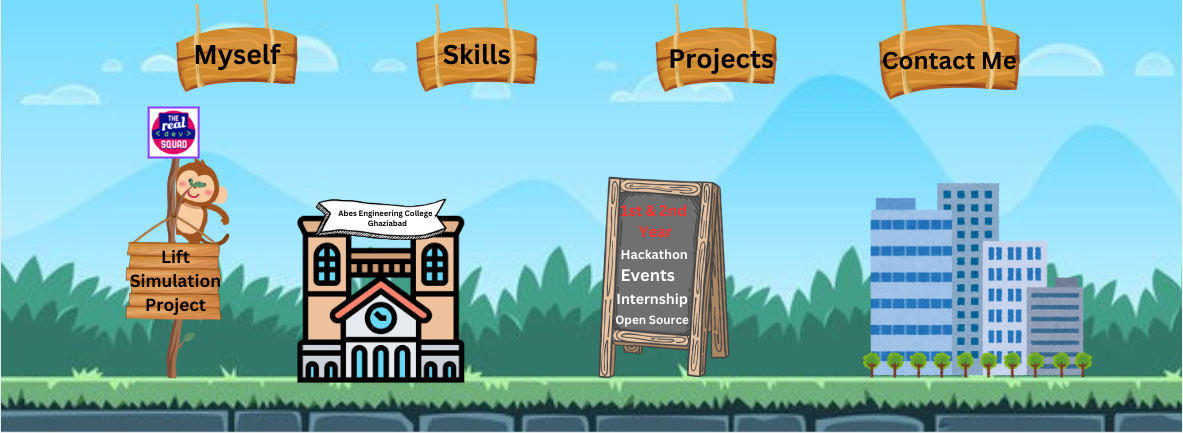
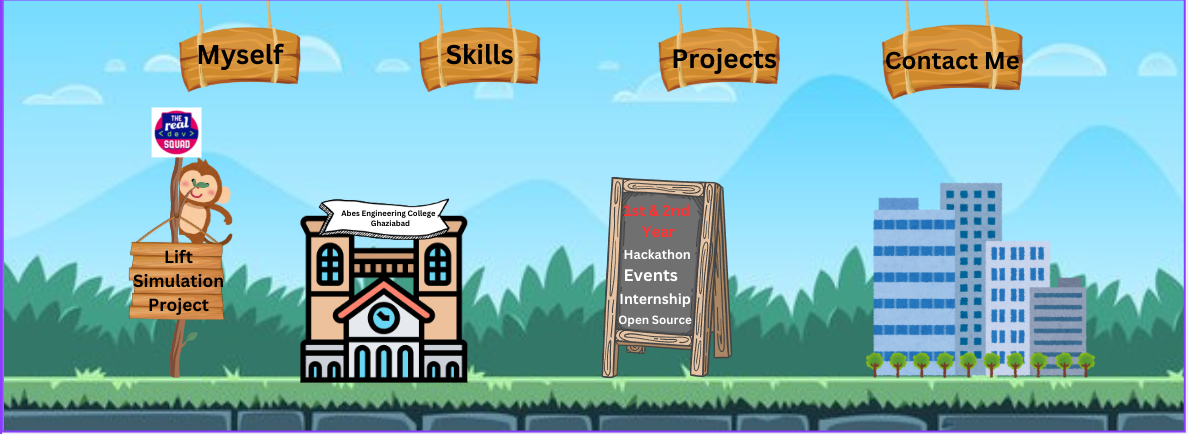
Contact Button working

diff --git a/main.js b/main.js
@@ -72,11 +72,11 @@ function create() {
         coin.setScale(0.2);
     
         // Set up the level crossed message (hidden initially)
-        levelCrossedText = this.add.text(this.scale.width / 2, this.scale.height / 2, 'Level 1 Crossed!', {
-            fontSize: '48px',
-            color: '#ff0000',
-            fontWeight: 'bold',
-        }).setOrigin(0.5).setVisible(false);
+        // levelCrossedText = this.add.text(this.scale.width / 2, 4000, 'Level 1 Crossed!', {
+        //     fontSize: '48px',
+        //     color: '#ff0000',
+        //     fontWeight: 'bold',
+        // }).setOrigin(0.5).setVisible(false);
     
 
     //   // Create breaker
@@ -99,13 +99,17 @@ function create() {
     // Play background music
     this.sound.play('backgroundMusic', { loop: true }); // Ensure it's looped
 
+       // Set up the level crossed message (hidden initially)
+       levelCrossedText = this.add.text(this.scale.width / 2 ,300, 'Level 1 Crossed!', {
+        fontSize: '48px',
+        color: '#ff0000',
+        fontWeight: 'bold',
+    }).setOrigin(0.5).setVisible(false);
 
 
     // Add "Contact Me" button
-    const contactButton = this.add.text(this.scale.width - 370, 150, 'Contact Me', {
+    const contactButton = this.add.text(this.scale.width - 370, 150, '      ', {
         fontSize: '40px',
-        color: '#000000',
-        backgroundColor: "#D2B48C",
         padding: { x: 10, y: 15 },
         align: 'center',
     }).setInteractive(); // Make the button clickable
@@ -129,7 +133,7 @@ function update() {
 
 
 
-    const levelCompleteText = this.add.text(400, 200, '', {
+    const levelCompleteText = this.add.text(0, 600, '', {
         font: '32px Arial',
         fill: '#fff'
     }).setOrigin(0.5);
@@ -163,34 +167,66 @@ function update() {
     if (cursors.down.isDown) {
         player.setVelocityY(350); // Move down (positive Y velocity)
     }
-    
-    this.physics.add.collider(player, box, function() {
-        // When the player collides with the box, stop movement
-        player.setVelocityX(0);  // Stop horizontal movement
-        player.setVelocityY(0);  // Stop vertical movement
-    });
 
-    // If no key is pressed, the character should stand straight (no movement)
-    if (!cursors.left.isDown && !cursors.right.isDown) {
-        player.setVelocityX(0); // Stop horizontal movement
-        
-        // Reset character facing direction (keep standing straight)
-        player.setFlipX(false); // Default to facing right (or facing forward)
+    if (background.texture.key === 'background3') {
+        if (!box) {
+            box = this.physics.add.staticSprite(1000, this.scale.height - 150, 'box');
+            box.setScale(1.5);
+            coin = this.physics.add.sprite(1000, this.scale.height - 300, 'coin');
+            coin.setScale(0.2);
+        }
+
+        // Add collision between player and box
+        this.physics.add.collider(player, box, function() {
+            player.setVelocityX(0);  // Stop horizontal movement
+            player.setVelocityY(0);  // Stop vertical movement
+        });
+
+        // Collision with the coin
+        this.physics.add.collider(player, coin, function() {
+            player.setVelocityY(0);  // Stop vertical movement
+            levelCrossedText.setText('Level 1 Completed'); // Set message text
+            levelCrossedText.setAlpha(1);  // Ensure text is fully visible
+            levelCrossedText.setVisible(true); 
+            coin.destroy(); // Destroy the coin after collection
+        });
+    } else {
+        // If not background2, destroy box and coin if they exist
+        if (box) {
+            box.destroy();
+            coin.destroy();
+            box = null;
+            coin = null;
+        }
     }
 
-    // Detect collision with the coin
-this.physics.add.collider(player, coin, function() {
-    // When the player collects the coin, stop movement
-    // player.setVelocityX(0);  // Stop horizontal movement
-    player.setVelocityY(0);  // Stop vertical movement
+    // this.physics.add.collider(player, box, function() {
+    //     // When the player collides with the box, stop movement
+    //     player.setVelocityX(0);  // Stop horizontal movement
+    //     player.setVelocityY(0);  // Stop vertical movement
+    // });
 
-    // Display the "Level 1 Completed" message
-    levelCompleteText.setText('Level 1 Completed');
-    levelCompleteText.setAlpha(1);  // Show the text
+    // // If no key is pressed, the character should stand straight (no movement)
+    // if (!cursors.left.isDown && !cursors.right.isDown) {
+    //     player.setVelocityX(0); // Stop horizontal movement
+        
+    //     // Reset character facing direction (keep standing straight)
+    //     player.setFlipX(false); // Default to facing right (or facing forward)
+    // }
 
-    // Optionally, you can destroy the coin after it’s collected
-    coin.destroy(); // Removes the coin from the game
-});
+//     // Detect collision with the coin
+// this.physics.add.collider(player, coin, function() {
+//     // When the player collects the coin, stop movement
+//     // player.setVelocityX(0);  // Stop horizontal movement
+//     player.setVelocityY(0);  // Stop vertical movement
+
+//     // Display the "Level 1 Completed" message
+//     levelCompleteText.setText('Level 1 Completed');
+//     levelCompleteText.setAlpha(1);  // Show the text
+
+//     // Optionally, you can destroy the coin after it’s collected
+//     coin.destroy(); // Removes the coin from the game
+// });
 
 
     // //1
